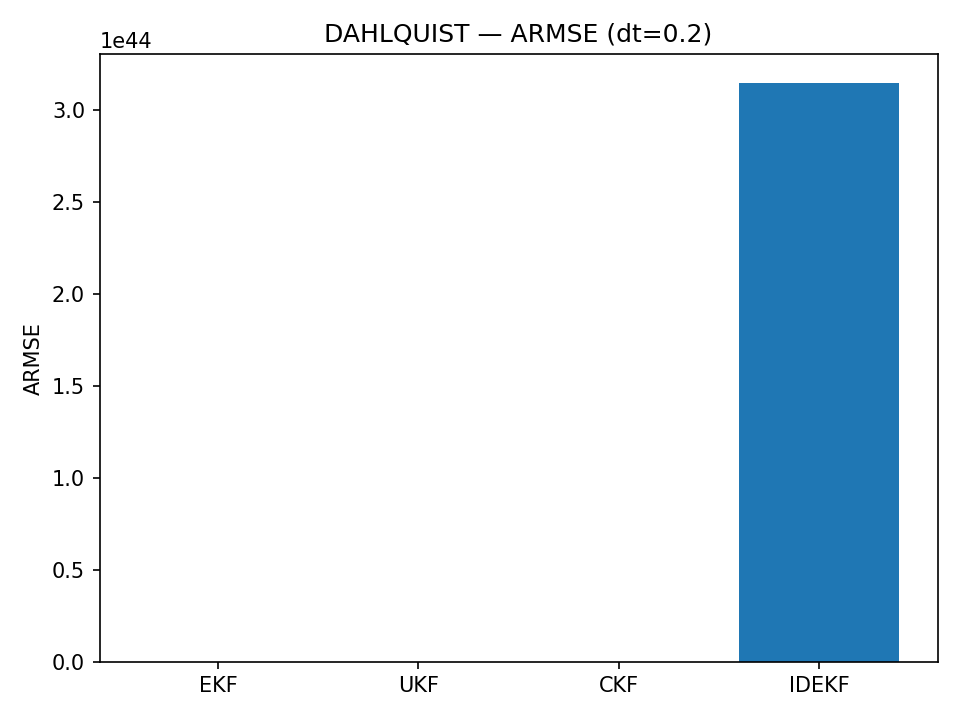
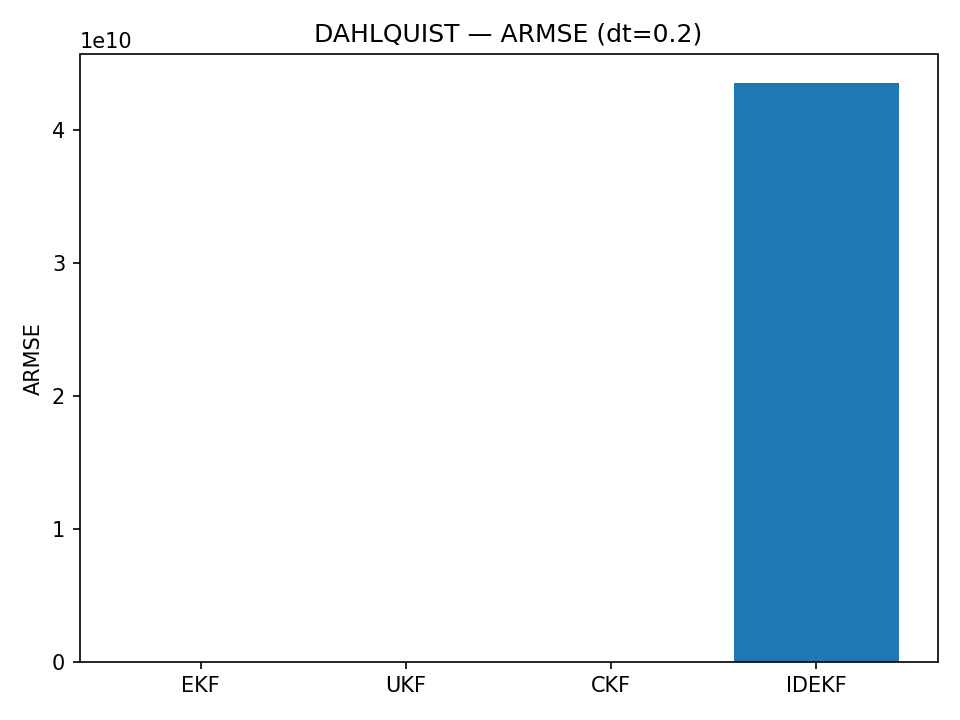
edits

diff --git a/filters.py b/filters.py
@@ -48,7 +48,7 @@ class EKF:
         H = self.H(x_pred)
         y = z - self.h(x_pred)
         S = ensure_psd(H @ P_pred @ H.T + self.R)
-        K = P_pred @ H.T @ np.linalg.solve(S)
+        K = P_pred @ H.T @ np.linalg.inv(S)
         x_upd = x_pred + K @ y
         P_upd = ensure_psd(P_pred - K @ S @ K.T)
         return x_upd, P_upd, y, S
@@ -101,7 +101,7 @@ class UKF:
             dx = (Xi[i] - x_pred).reshape(-1,1)
             S += Wc[i] * (dz @ dz.T)
             Pxz += Wc[i] * (dx @ dz.T)
-        K = Pxz @ np.linalg.solve(S)
+        K = Pxz @ np.linalg.inv(S)
         y = z - z_pred
         x_upd = x_pred + K @ y
         P_upd = ensure_psd(P_pred - K @ S @ K.T)
@@ -147,7 +147,7 @@ class CKF:
             dx = (Xi[i] - x_pred).reshape(-1,1)
             S += W[i] * (dz @ dz.T)
             Pxz += W[i] * (dx @ dz.T)
-        K = Pxz @ np.linalg.solve(S)
+        K = Pxz @ np.linalg.inv(S)
         y = z - z_pred
         x_upd = x_pred + K @ y
         P_upd = ensure_psd(P_pred - K @ S @ K.T)
@@ -193,8 +193,8 @@ class IDEKF:
     
     def __init__(self, dm, h_fun, H_fun, R):
         self.dm = dm          # DiscreteModel with g(x), F(x), Q
-        self.h = h_fun        # measurement function h(x)  (can be None for linear)
-        self.H_fun = H_fun    # function returning H(x)
+        self.h_fun = h_fun        # measurement function h(x)  (can be None for linear)
+        self.H_jac = H_fun    # Jacobian evaluated
         self.R = np.asarray(R)
 
         # --- dimensions (this is what you keep) ---
@@ -219,11 +219,13 @@ class IDEKF:
     def predict(self, x: np.ndarray, P: np.ndarray):
         self._ensure_initialized(x, P)
 
-        Phi_k   = self._num_jacobian_g(x)        
+
+        Phi_k   = self.dm.g(x) 
+        B, V, _ = cov_to_inf(P, self._n)       
         gamma_k = np.eye(self._n)
         Q_k = self.dm.Q
 
-        self.u, self.B, self.V = tupdate(self.u, self.B, self.V, Phi_k, gamma_k, Q_k)
+        self.u, self.B, self.V = tupdate(x, B, V, Phi_k, gamma_k, Q_k)
 
         x_pred = self.u.ravel()
         P_pred = ensure_psd(inf_to_cov(self.V, self.B, self._n))
@@ -231,16 +233,14 @@ class IDEKF:
 
     def update(self, x_pred: np.ndarray, P_pred: np.ndarray, z):
         z = np.asarray(z).reshape(-1, 1)
-        Hk, zhat = self._compute_Hk_zhat(x_pred)
 
-
-        out = mupdate(0, z, self.u, self.B, self.V, self.R, Hk, None)
+        out = mupdate(0, z, self.u, self.B, self.V, self.R, self.H_jac, self.h_fun)
         self.u, self.V, self.B = out[0], out[1], out[2]
 
         x_upd = self.u.ravel()
         P_upd = ensure_psd(inf_to_cov(self.V, self.B, self._n))
         
-        y = (z - zhat).ravel()
-        S = ensure_psd(Hk @ P_pred @ Hk.T + self.R)
+        y = (z - self.h_fun(x_pred)).ravel()
+        S = ensure_psd(self.H_jac @ P_pred @ self.H_jac.T + self.R)
 
         return x_upd, P_upd, y, S

diff --git a/IDKalman/Mupdate.py b/IDKalman/Mupdate.py
@@ -43,7 +43,7 @@ def mupdate(k, Z, u, B_or_sigma, V, R, H, h=None):
     n2 = 0
     u_new = np.vstack((u, H @ u))
     if h is not None:
-        u_new = np.vstack((u, h))
+        u_new = np.vstack((u, h(u)))
 
 
     # Construct V_new to structure
